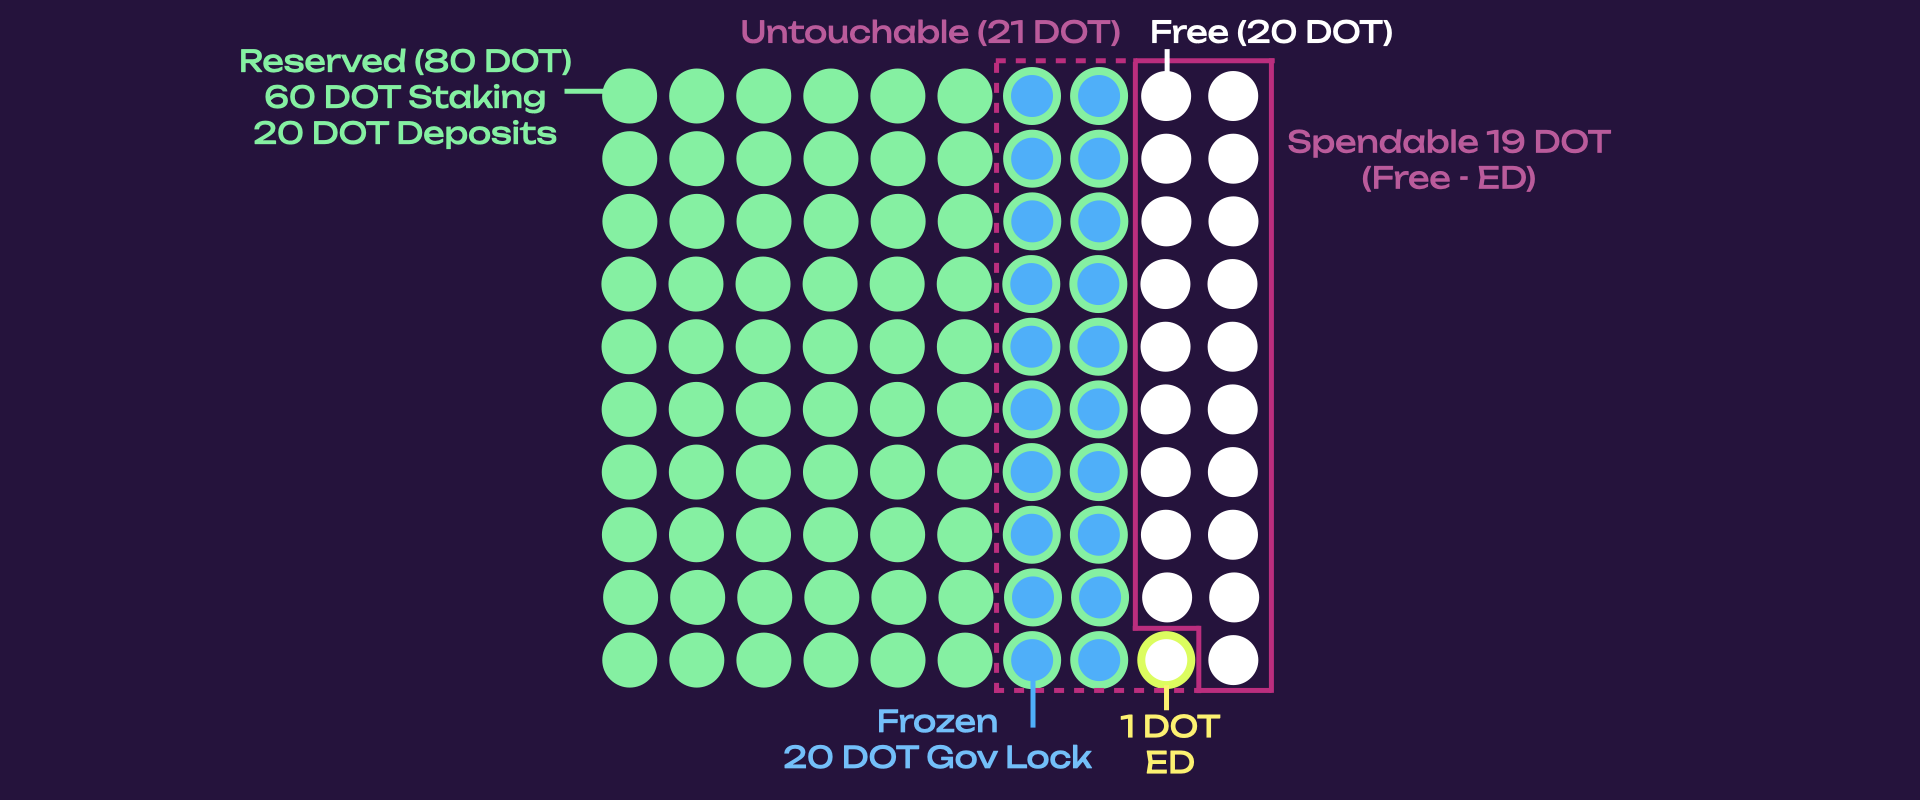
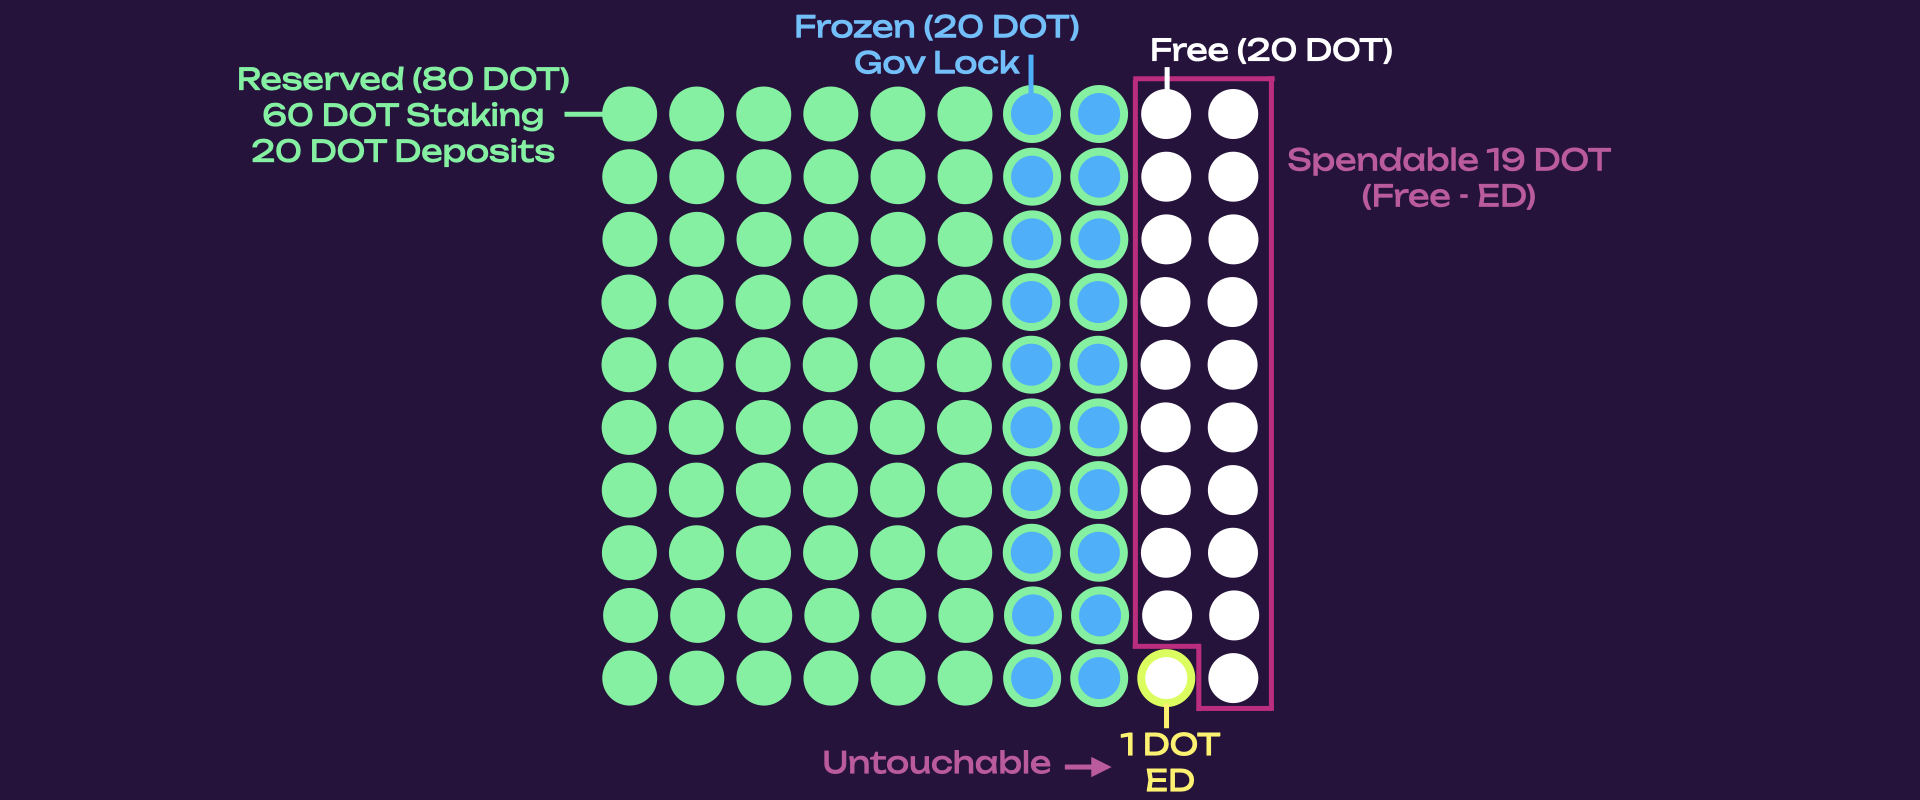
Michalis feedback

Changed region(s): [[0.125, 0.0, 0.8438, 1.0]]

diff --git a/docs/learn/learn-account-balances.md b/docs/learn/learn-account-balances.md
@@ -20,7 +20,7 @@ There are four types of account balances:
 
     Locks overlay with themselves and with holds, meaning that if staking reserves 60 DOT, voting for a governance proposal with 20 DOT will put a lock on 20 out of 60 reserved DOT. If a governance vote freezes 20 DOT and vesting freezes 120 DOT, the total frozen balance is 120 DOT (not 140 DOT).
 
-- **Spendable Balance** is the portion of free balance available for transaction fees and creating new holds.
+- **Spendable Balance** is the portion of free balance that can be transferred and it is also available for transaction fees and creating new holds.
 
 The spendable balance is calculated as follows:
 
@@ -97,24 +97,23 @@ Free: 20 DOT
 Frozen (locked): 20 DOT
 Reserved (held): 80 DOT
 Spendable: 19 DOT (Free - ED)
-Untouchable: 21 DOT (ED)
+Untouchable: 1 DOT (ED)
 ```
 
 ![balance-example-4](../assets/balance-example-4.png)
 
-Note how, through the fungible trait, the system uses the reserved balance. In other words, locks are
-subtracted from the free balance but overlap with the reserved balance, and with themselves (see below). The free and reserved portions remain 20 DOT and 80 DOT, respectively. We also have 20 DOT as a frozen balance because of the governance lock, and the untouchable balance would thus be 21 DOT.
+Note how, through the fungible trait, the system uses the reserved balance. Locks are
+imposed on the total balance, they overlap with the reserved balance, and with themselves (see below). The free and reserved portions remain 20 DOT and 80 DOT, respectively. We also have 20 DOT as a frozen balance because of the governance lock. The untouchable balance remains 1 DOT as it is defined as the frozen balance in excess of any holds (in this case frozen < holds, so only the ED is untouchable).
 
-A vested transfer of 50 DOT will
-grow the frozen balance to 50 DOT and the untouchable balance to 51 DOT, using the already frozen 20 DOT plus an additional 30 DOT from the reserved balance without touching the free and spendable balances.
+If the account votes on another governance proposal with 85 DOT (assuming the previous proposal is still ongoing or that it ended on the winning side with a lock), the frozen balance will increase to 85 DOT and the untouchable balance to 6 DOT, using the already frozen 20 DOT plus an additional 60 DOT from the reserved balance and 5 DOT from the free balance, in excess of the reserved balance.
 
 
 ```
 Free: 20 DOT
-Frozen (locked): 50 DOT
+Frozen (locked): 85 DOT
 Reserved (held): 80 DOT
-Spendable: 19 DOT (Free - ED)
-Untouchable: 51 DOT (ED)
+Spendable: 14 DOT (Free - untouchable)
+Untouchable: 6 DOT (ED + frozen in excess of reserved)
 ```
 
 ![balance-example-5](../assets/balance-example-5.png)
@@ -145,7 +144,7 @@ Locks overlap (in both amount and duration), and the general rule is that:
 Let's take, for example, 80 DOT as a `frozen` balance. These 80 DOT are currently used in vesting
 and governance as follows:
 
-- 80 DOT Vesting (just unbonded) -> lock 28 days
+- 80 DOT vesting that become fully vested in 28 days
 - 24 DOT OpenGov 1x conviction (referendum just ended, winning side) -> lock 7 days
 - 4 DOT OpenGov 6x conviction (referendum just ended, winning side) -> lock 224 days
 
